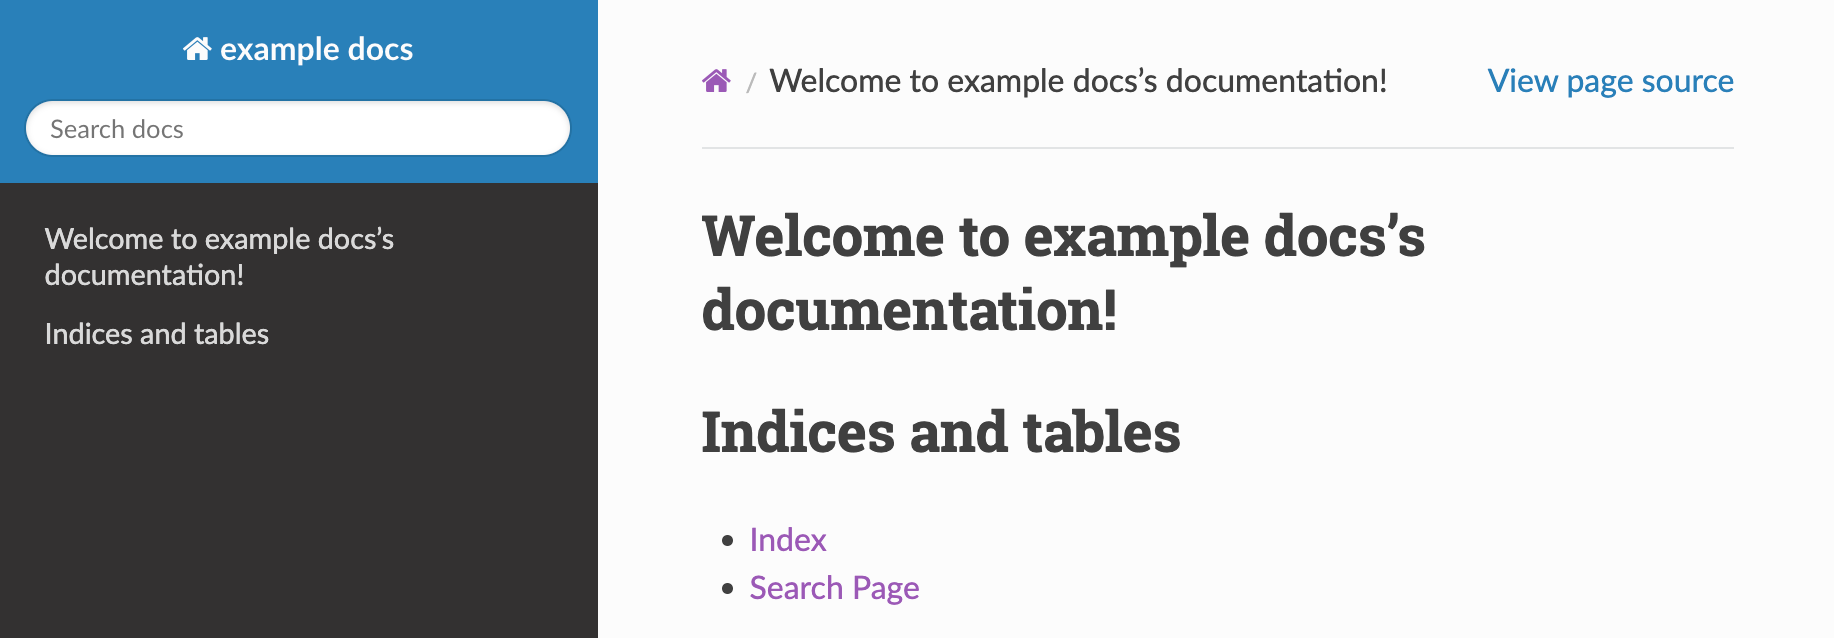
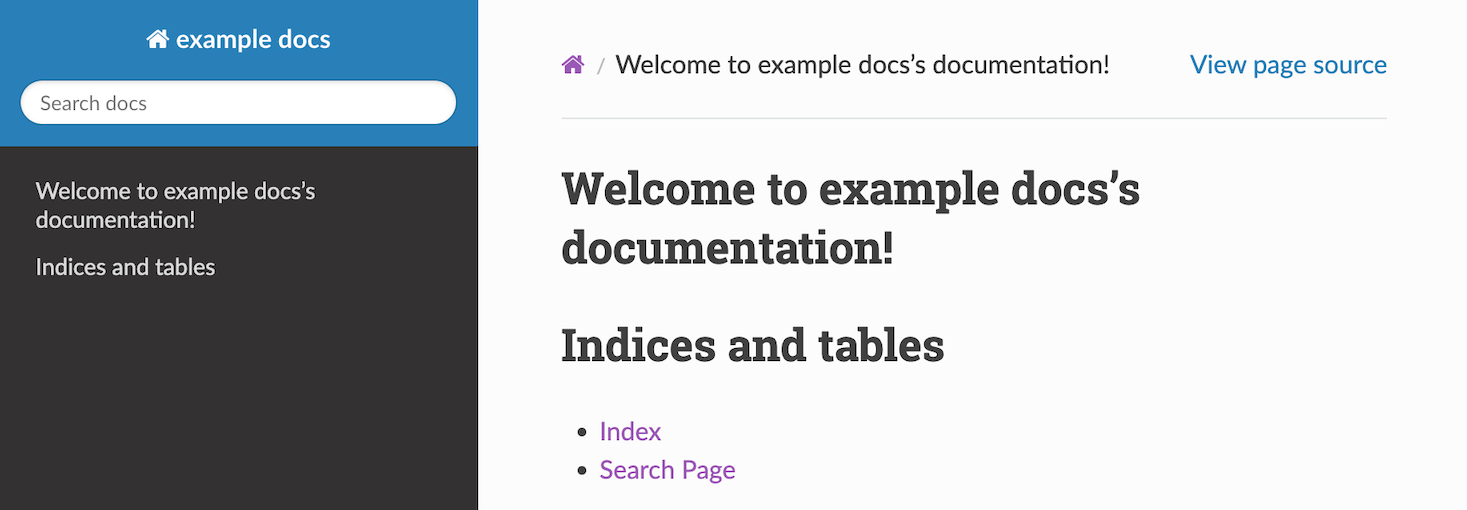
resize images, small changes

diff --git a/posts/how-to-automatically-release-sphinx-documentation-using-cdk-pipelines-and-a-custom-codebuild-image/index.md b/posts/how-to-automatically-release-sphinx-documentation-using-cdk-pipelines-and-a-custom-codebuild-image/index.md
@@ -9,7 +9,7 @@ tags:
   - codebuild
 authorGithubAlias: jumic
 authorName: Julian Michel
-date: 2023-06-29
+date: 2023-08-29
 ---
 
 [Sphinx](https://www.sphinx-doc.org/) is a great tool for writing documentation. Source files are stored in a Git repository and can be exported to HTML, PDF and other formats. As with software projects, a pipeline makes it easy to publish a Sphinx documentation project.
@@ -21,7 +21,7 @@ This article describes how to publish Sphinx projects using CDK pipelines. A cus
 ## Why Sphinx?
 Every software project should have good documentation. But how do you create it? Sphinx is a tool for creating professional software documentation. It supports multiple output formats, table of contents, automatic indexing, source code handling and much more. It is also very powerful because of its extension and theme support.
 
-![Sphinx documentation](images/sphinx-documentation.png)
+![Screenshot of a sphinx documentation project](images/sphinx-documentation.png)
 
 ## How das Sphinx work?
 Sphinx is based on the reStructuredText format, a markup language similar to Markdown format. Authors can include source code, images, references, etc. Sphinx is a command line tool. A new project can be setup using command `sphinx-quickstart`. After the first pages are created, command `make html` exports to documentation as HTML.
@@ -148,7 +148,7 @@ For the first deployment, the CDK stack `SphinxDocumentationPipelineStack` must 
 
 When the pipeline execution is finished, the S3 Bucket shows the HTML and PDF versions of the documentation. It is also accessible via the CloudFront URL.
 
-![Sphinx S3 Content](images/sphinx-s3-content.png)
+![Exported content of Sphinx documentation project in S3 bucket](images/sphinx-s3-content.png)
 
 
 ## Conclusion
